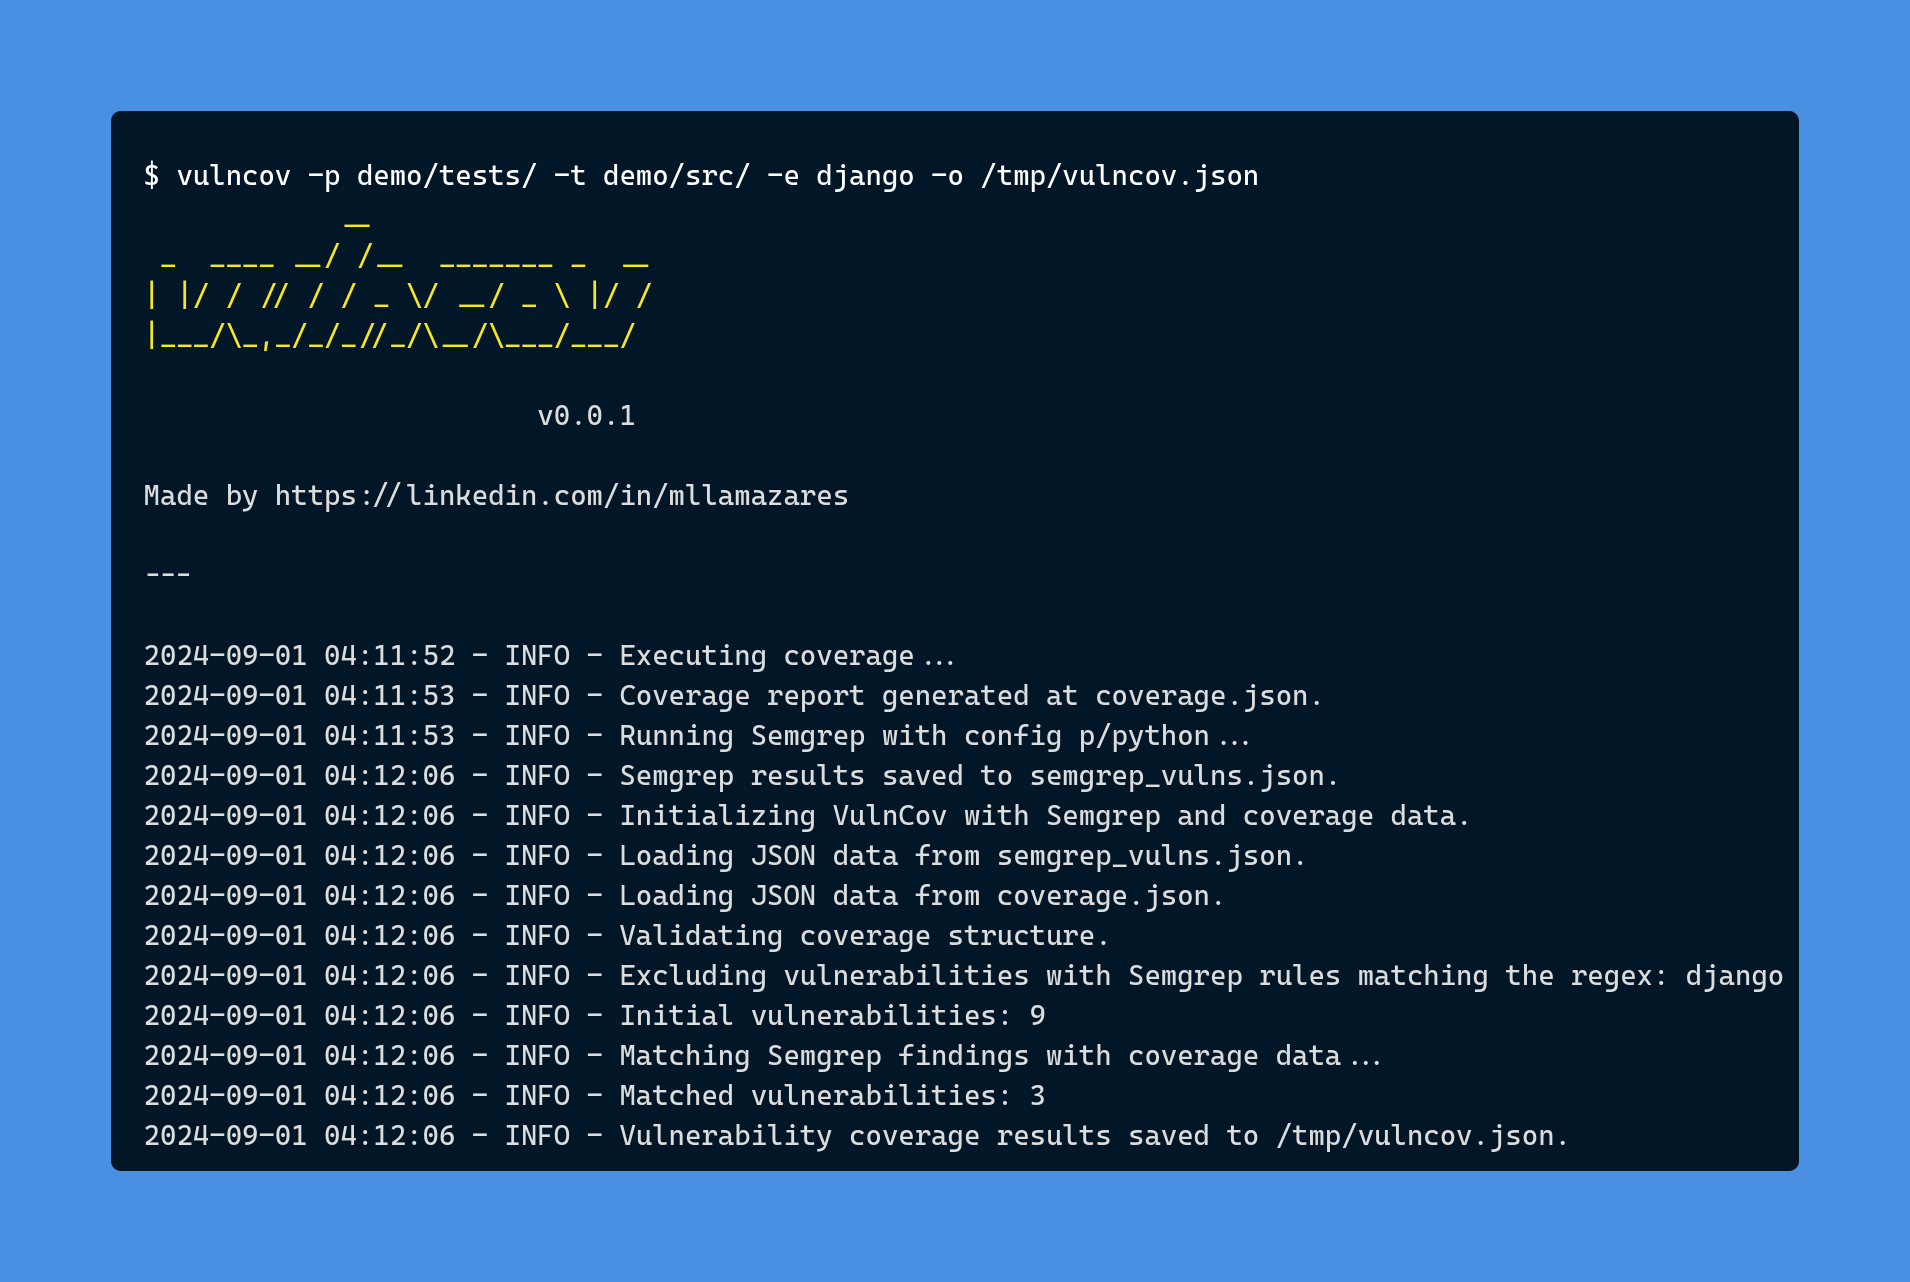
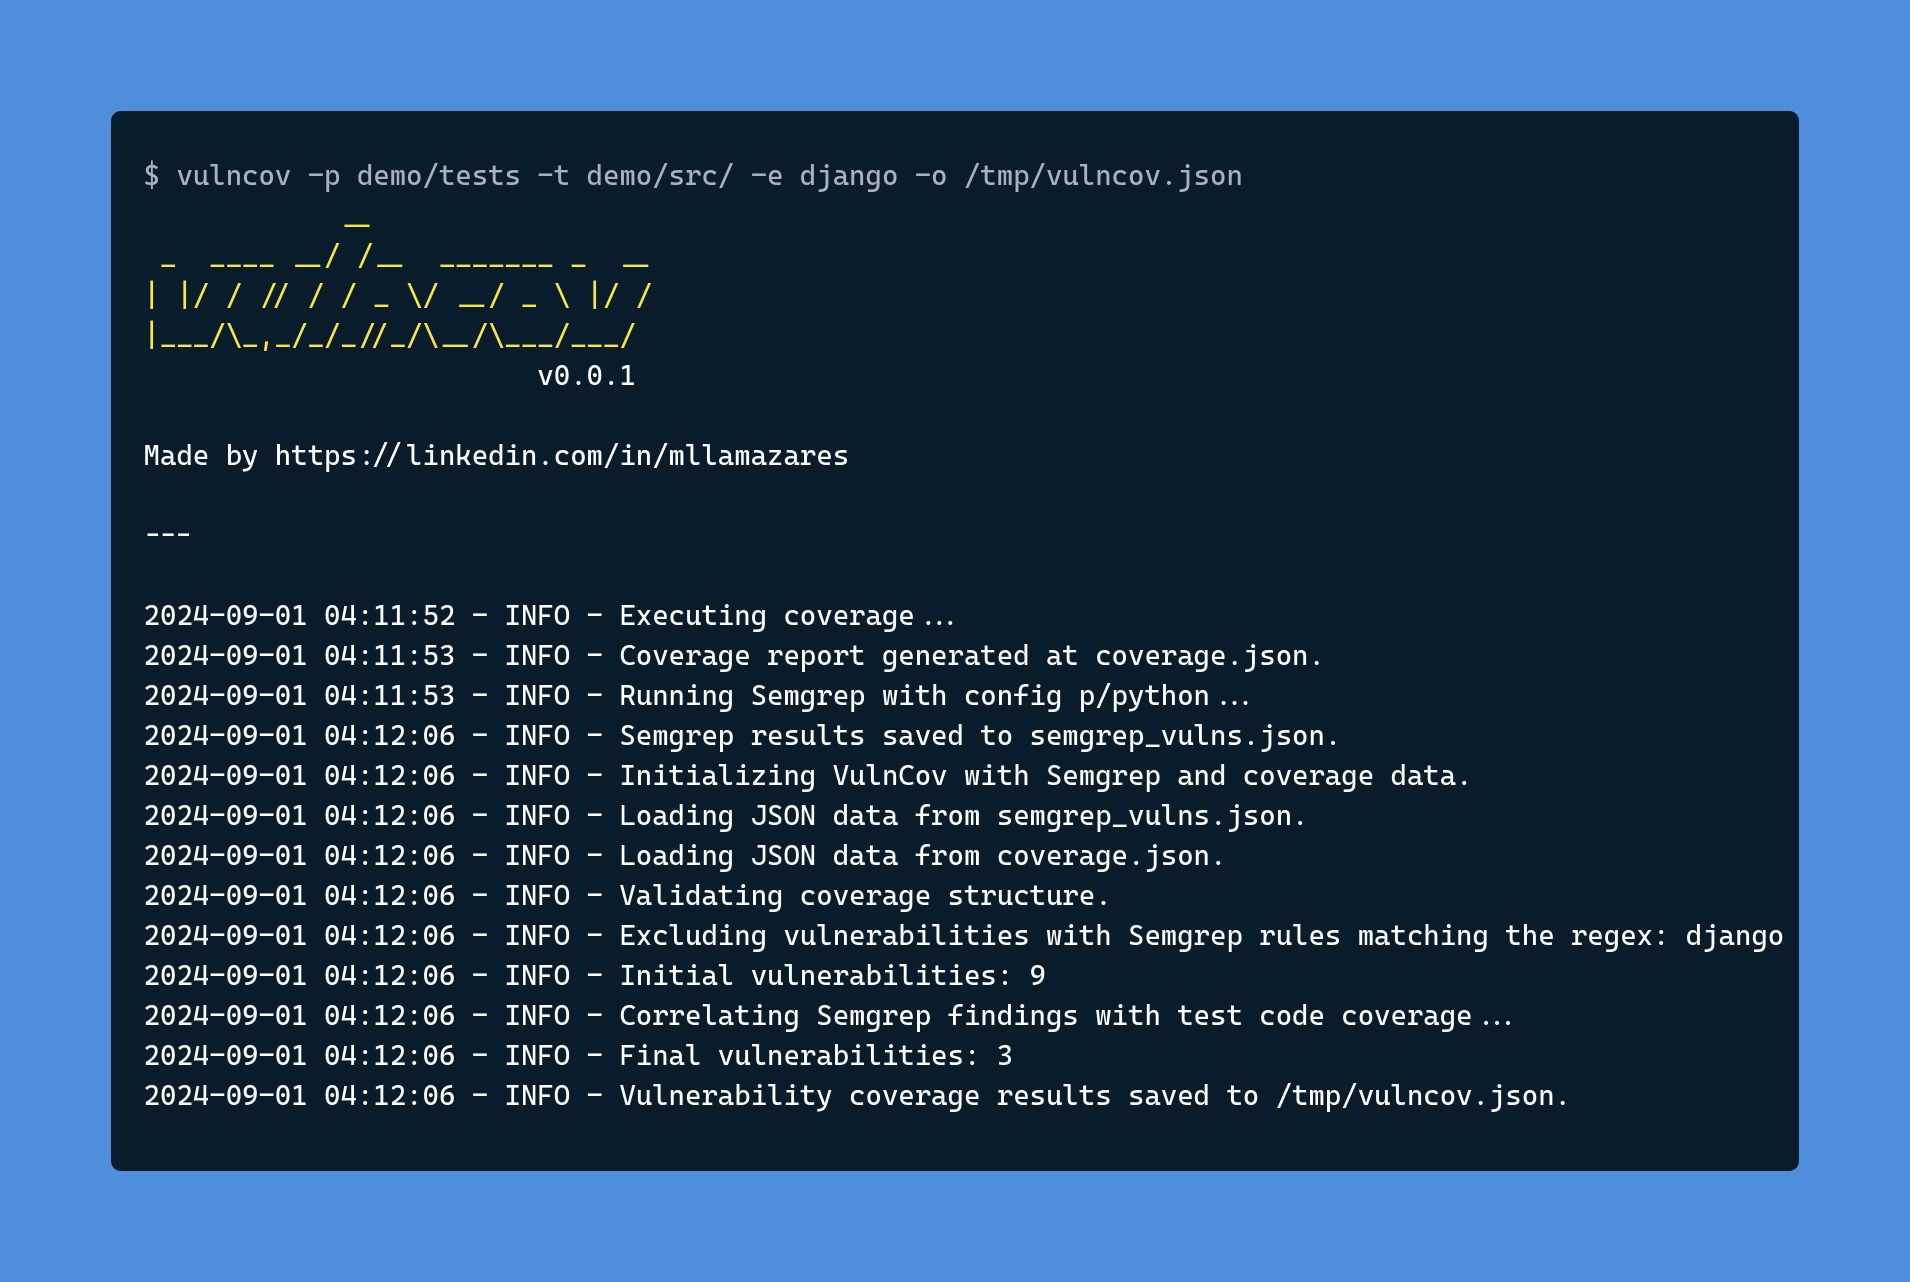
Update logging and screenshot

diff --git a/vulncov/vulncov.py b/vulncov/vulncov.py
@@ -140,7 +140,7 @@ class VulnCov:
             logging.info("Excluding vulnerabilities which semgrep rule matches the regex: {exclude_rule}".format(exclude_rule=exclude_rule))
 
         logging.info("Input vulnerabilities: {vinput}".format(vinput=self.headers['number_vulnerabilities_input']))
-        logging.info("Matching semgrep vulns with coverage execution...")
+        logging.info("Correlating semgrep findings with test code coverage...")
 
         matched_results = []
 
@@ -176,7 +176,7 @@ class VulnCov:
 
         self.headers['number_vulnerabilities_matched'] = len(matched_results)
 
-        logging.info("Matched vulnerabilities: {vinput}".format(vinput=self.headers['number_vulnerabilities_matched']))
+        logging.info("Final vulnerabilities: {vinput}".format(vinput=self.headers['number_vulnerabilities_matched']))
 
         final_output = {
             'summary': self.headers,
